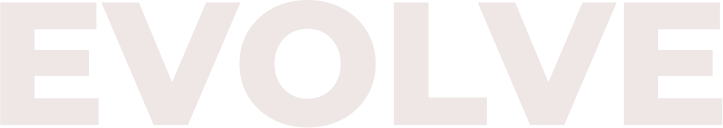
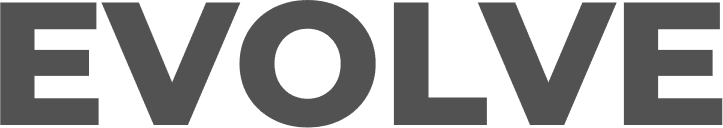
update navbar

diff --git a/src/scenes/home/index.tsx b/src/scenes/home/index.tsx
@@ -2,7 +2,7 @@ import useMediaQuery from '@/hooks/useMediaQuery';
 import { SelectedPage } from '@/shared/types';
 import ActionButton from '@/shared/ActionButton';
 import HomePageText from "@/assets/HomePageText.png";
-import HomePageGraphic from "@/assets/HomePageGraphic.png";
+import HomePageGraphic from "@/assets/bum.png";
 import SponsorRedBull from "@/assets/SponsorRedBull.png";
 import SponsorForbes from "@/assets/SponsorForbes.png";
 import SponsorFortune from "@/assets/SponsorFortune.png";
@@ -41,12 +41,11 @@ function Home({ setSelectedPage }: Props) {
                     className='md:-mt-20'>
                         <div className='relative'>
                             <div className='before:absolute before:-top-20 before:-left-20 before:z-[-1] md:before:content-evolvetext'>
-                                <img src={HomePageText} alt="home-page-text" />
+                                <img src={HomePageText} alt="home-page-text" className='w-[489px] h-[163px]'/>
                             </div>
                         </div>
-                        <p className='mt-8 text-sm'>
-                            AUWHEAWH AUHE AHWEUHA UWEUAWHE AWUEUA WUEU AWUE AUWHEUAW UEUAWEUAW UEU AUWE UAWUE AUWE
-                            UAWEUHAWEHAEA AUWHEU AWUE AUWEUAWUEU AWUEAUW EUAWEUAWUEAWUEUAWEAUWEUAWAW UEAW A
+                        <p className='mt-8 text-md text-white'>
+                        Academias sem igual. Treinamentos e aulas fitness incomparáveis. Estúdios topo de linha para você alcançar a forma física que você sonha. Obtenha o corpo dos seus sonhos agora.
                         </p>
                     </motion.div>
 
@@ -66,11 +65,12 @@ function Home({ setSelectedPage }: Props) {
                         </ActionButton>
 
                         <AnchorLink
-                        className='text-sm font-bold text-primary-500 underline hover:text-secondary-500'
+                        className='text-sm font-bold text-primary-500 underline hover:text-black'
                         onClick={()=> setSelectedPage(SelectedPage.ContactUs)}
                         href={`#${SelectedPage.ContactUs}`}
                         >
                         <p>Learn More</p>
+                        
                         </AnchorLink>
                     </motion.div>
                 </div>

diff --git a/src/scenes/navbar/index.tsx b/src/scenes/navbar/index.tsx
@@ -1,6 +1,6 @@
 import { useState } from 'react';
 import { Bars3Icon, XMarkIcon } from '@heroicons/react/24/solid';
-import Logo from '@/assets/Logo.png';
+import Logo from '@/assets/logobranca.png';
 import Link from './Link';
 import { SelectedPage } from '@/shared/types';
 import useMediaQuery from '@/hooks/useMediaQuery';
@@ -23,7 +23,7 @@ const Navbar = ({ isTopOfPage, selectedPage, setSelectedPage }: Props) => {
             <div className={`${flexBetween} mx-auto w-5/6`}>
                 <div className={`${flexBetween} w-full gap-16`}>
                     {/* LEFT SIDE */}
-                    <img src={Logo} alt="logo" />
+                    <img src={Logo} alt="logo" className='h-[24px] w-[113px]'/>
                     {/* RIGHT SIDE */}
                     {isAboveMediumScreens ? (<div className={`${flexBetween} w-full`}>
                         <div className={`${flexBetween} gap-8 text-sm`}>

diff --git a/tailwind.config.js b/tailwind.config.js
@@ -4,15 +4,15 @@ module.exports = {
   theme: {
     extend: {
       colors: {
-        "gray-20": "#F8F4EB",
+        "gray-20": "black",
         "gray-50": "#EFE6E6",
         "gray-100": "#DFCCCC",
-        "gray-500": "#5E0000",
-        "primary-100": "#FFE1E0",
+        "gray-500": "black",
+        "primary-100": "#f3f3f3",
         "primary-300": "#FFA6A3",
-        "primary-500": "#FF6B66",
+        "primary-500": "red",
         "secondary-400": "#FFCD5B",
-        "secondary-500": "#FFC132",
+        "secondary-500": "#f3f3f3",
       },
       backgroundImage: (theme) => ({
         "gradient-yellowred":

diff --git a/src/scenes/footer/index.tsx b/src/scenes/footer/index.tsx
@@ -7,7 +7,7 @@ function Footer({ }: Props) {
         <footer className="bg-primary-100 py-16">
             <div className="justify-content mx-auto w-5/6 gap-16 md:flex">
                 <div className="mt-16 basis1/2 md:mt-0">
-                    <img src={Logo} alt="logo" />
+                    <img src={Logo} alt="logo" className="h-[24px] w-[113px]"/>
                     <p className="my-5">
                         awueauweuawudhu awuh wuadhuawu dhawu dhu awueauweuawudhu awuh wuadhuawu dhawu dhu
                         awuhe auwheuhawue uawhe uhawue hawuhe uawhueh uawhe uahwue hawu hewhae
